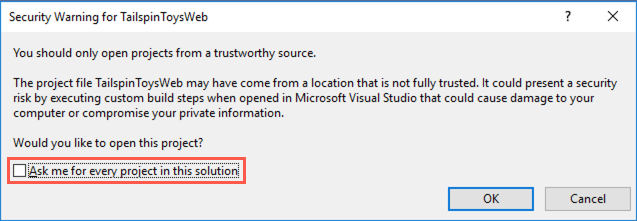
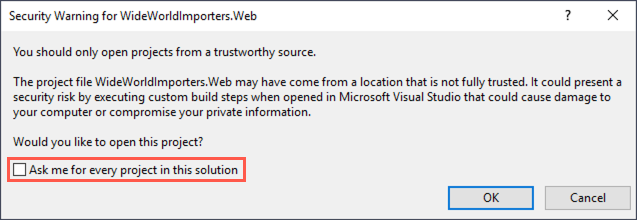
HOL exercise 3 updates

diff --git a/Hands-on lab/HOL step-by-step - Migrating SQL databases to Azure.md b/Hands-on lab/HOL step-by-step - Migrating SQL databases to Azure.md
@@ -759,7 +759,7 @@ In this task, you create an RDP connection to the JumpBox VM and then, using Vis
 
 9. In the File Explorer dialog, navigate to the `C:\hands-on-lab` folder and then drill down to `Migrating-SQL-databases-to-Azure-master\Hands-on lab\lab-files`. In the `lab-files` folder, double-click `WideWorldImporters.sln` to open the solution in Visual Studio.
 
-   ![The folder at the path specified above is displayed, and WideWorldImporters.sln is highlighted.](media/windows-explorer-tailspintoysweb.png "Windows Explorer")
+   ![The folder at the path specified above is displayed, and WideWorldImporters.sln is highlighted.](media/windows-explorer-lab-files-web-solution.png "Windows Explorer")
 
 10. If prompted about how you want to open the file, select **Visual Studio 2019** and then select **OK**.
 
@@ -785,7 +785,7 @@ In this task, you create an RDP connection to the JumpBox VM and then, using Vis
 
     ![In the Publish dialog, Azure App Service (Windows) is selected and highlighted in the Specific Target box. The Next button is highlighted.](media/vs-publish-specific-target.png "Publish API App to Azure")
 
-16. Finally, in the **App Service** box, select your subscription, expand the hands-on-lab-SUFFIX resource group, and select the Web App.
+16. Finally, in the **App Service** box, select your subscription, expand the hands-on-lab-SUFFIX resource group, and select the `wwi-web-UNIQUEID` Web App.
 
     ![In the Publish dialog, The Tailspin Toys Web App is selected and highlighted under the hands-on-lab-SUFFIX resource group.](media/vs-publish-web-app-service.png "Publish API App to Azure")
 
@@ -805,7 +805,7 @@ In this task, you create an RDP connection to the JumpBox VM and then, using Vis
 
 ### Task 2: Update App Service configuration
 
-In this task, you make updates to WWI gamer info web application to enable it to connect to and utilize the SQL MI database.
+In this task, you update the WWI gamer info web application to connect to and utilize the SQL MI database.
 
 1. In the [Azure portal](https://portal.azure.com), select **Resource groups** from the Azure services list.
 
@@ -823,7 +823,7 @@ In this task, you make updates to WWI gamer info web application to enable it to
 
    ![The Configuration item is selected under Settings.](media/app-service-configuration-menu.png "Configuration")
 
-5. On the Configuration blade, locate the **Connection strings** section, and then select the Pencil (Edit) icon to the right of the `WwiContext` connection string.
+5. On the Configuration blade, locate the **Connection strings** section and then select the Pencil (Edit) icon to the right of the `WwiContext` connection string.
 
    ![In the Connection string section, the pencil icon is highlighted to the right of the WwiContext connection string.](media/app-service-configuration-connection-strings.png "Connection Strings")
 
@@ -857,9 +857,9 @@ In this task, you make updates to WWI gamer info web application to enable it to
 
     ![Overview is highlighted on the left-hand menu for App Service](media/app-service-overview-menu-item.png "Overview menu item")
 
-14. At this point, selecting the **URL** for the App Service on the Overview blade still results in an error being return. This is because SQL Managed Instance has a private IP address in its VNet. To connect an application, you need to configure access to the VNet where Managed Instance is deployed, which you handle in the next exercise.
+14. At this point, selecting the **URL** for the App Service on the Overview blade still results in an error being return. The error occurs because SQL Managed Instance has a private IP address in its VNet. To connect an application, you need to configure access to the VNet where Managed Instance is deployed, which you handle in the next exercise.
 
-    ![An error screen is displayed, because the application is unable to connect to SQL MI within its private virtual network.](media/web-app-error-screen.png "Web App error")
+    ![An error screen is displayed because the application cannot connect to SQL MI within its private virtual network.](media/web-app-error-screen.png "Web App error")
 
 ## Exercise 4: Integrate App Service with the virtual network
 
